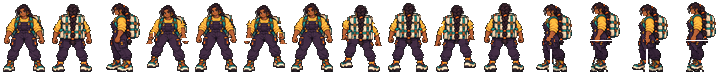
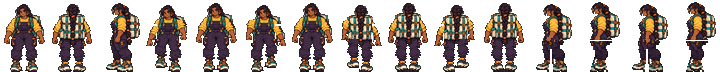
Normal stance: legs together instead of a wide A-pose
The concepts stand with the feet far apart, so walking looked like a crab
walk. Front/back frames (standing and walking) now angle each leg in from the
hip so the feet are ~2 px apart; tiny detached specks are cleaned up.

diff --git a/scripts/walk_cycle.py b/scripts/walk_cycle.py
@@ -64,6 +64,39 @@ def _anatomy(a):
     return top, bottom, hip, crotch_x, hip_l, hip_r
 
 
+def narrow_stance(view):
+    """
+    Front/back views: the concepts stand in a wide A-pose. This angles each leg in from the
+    hip so the feet end up close together, like a normal stance: no shift at the hip, the
+    most at the feet. Used for the standing frames and as the base of the walk.
+    """
+    a = _rgba(view)
+    h, w = a.shape[:2]
+    top, bottom, hip, cx, _, _ = _anatomy(a)
+    opaque = a[:, :, 3] > 0
+    # The gap between the feet, a few rows above the soles.
+    row = opaque[max(hip, bottom - 4)]
+    left_feet = np.nonzero(row[:cx])[0]
+    right_feet = np.nonzero(row[cx:])[0]
+    if not len(left_feet) or not len(right_feet):
+        return view
+    gap = (right_feet[0] + cx) - left_feet[-1] - 1
+    pull = max(0, (gap - 2) // 2)  # leave about 2 px between the feet
+    if pull == 0:
+        return view
+    out = a.copy()
+    out[hip:] = 0
+    top_leg = hip - 1
+    for y in range(top_leg, bottom + 1):
+        t = (y - top_leg) / max(1, bottom - top_leg)
+        d = round(pull * t)
+        for x in np.nonzero(opaque[y])[0]:
+            nx = x + d if x < cx else x - d
+            if 0 <= nx < w:
+                out[y, nx] = a[y, x]
+    return _img(out)
+
+
 def _front_back(view, back=False):
     a = _rgba(view)
     h, w = a.shape[:2]
@@ -235,6 +268,30 @@ def _side(view, forearm=None):
     return [_img(step_a), _img(passing), _img(step_b), _img(passing)]
 
 
+def _drop_specks(img, max_size=4):
+    """Removes tiny detached bits (a few pixels cut loose when parts move) from a frame."""
+    a = _rgba(img)
+    alpha = a[:, :, 3] > 0
+    h, w = alpha.shape
+    seen = np.zeros_like(alpha)
+    for sy, sx in zip(*np.nonzero(alpha)):
+        if seen[sy, sx]:
+            continue
+        comp = [(sy, sx)]
+        seen[sy, sx] = True
+        for y, x in comp:
+            for dy in (-1, 0, 1):
+                for dx in (-1, 0, 1):
+                    ny, nx = y + dy, x + dx
+                    if 0 <= ny < h and 0 <= nx < w and alpha[ny, nx] and not seen[ny, nx]:
+                        seen[ny, nx] = True
+                        comp.append((ny, nx))
+        if len(comp) <= max_size:
+            for y, x in comp:
+                a[y, x] = 0
+    return _img(a)
+
+
 def walk_frames(view, kind, forearm=None):
     """
     Four walk frames for a view: kind is 'front', 'back' or 'side' (facing left). For the
@@ -242,5 +299,7 @@ def walk_frames(view, kind, forearm=None):
     elbow): it can't be told apart from the torso automatically, so it's marked per character.
     """
     if kind == 'side':
-        return _side(view, forearm)
-    return _front_back(view, back=(kind == 'back'))
+        frames = _side(view, forearm)
+    else:
+        frames = _front_back(narrow_stance(view), back=(kind == 'back'))
+    return [_drop_specks(f) for f in frames]

diff --git a/scripts/build-characters.py b/scripts/build-characters.py
@@ -13,7 +13,7 @@ from pathlib import Path
 
 from PIL import Image, ImageDraw
 
-from walk_cycle import walk_frames
+from walk_cycle import narrow_stance, walk_frames
 
 ROOT = Path(__file__).resolve().parent.parent
 SRC = ROOT / 'art' / 'characters'
@@ -108,7 +108,8 @@ def build(char_id):
     scale = min((FRAME_H - 3) / max(v.height for v in views), (FRAME_W - 2) / max(v.width for v in views))
     front, side, back = (shrink(v, scale) for v in (front, side, back))
 
-    stand = [frame(front), frame(back), frame(side)]
+    # Front and back stand with the feet together (the concepts are a wide A-pose).
+    stand = [narrow_stance(frame(front)), narrow_stance(frame(back)), frame(side)]
     frames = list(stand)
     for view, kind in zip(stand, ('front', 'back', 'side')):
         frames += walk_frames(view, kind, SIDE_FOREARM.get(char_id) if kind == 'side' else None)
